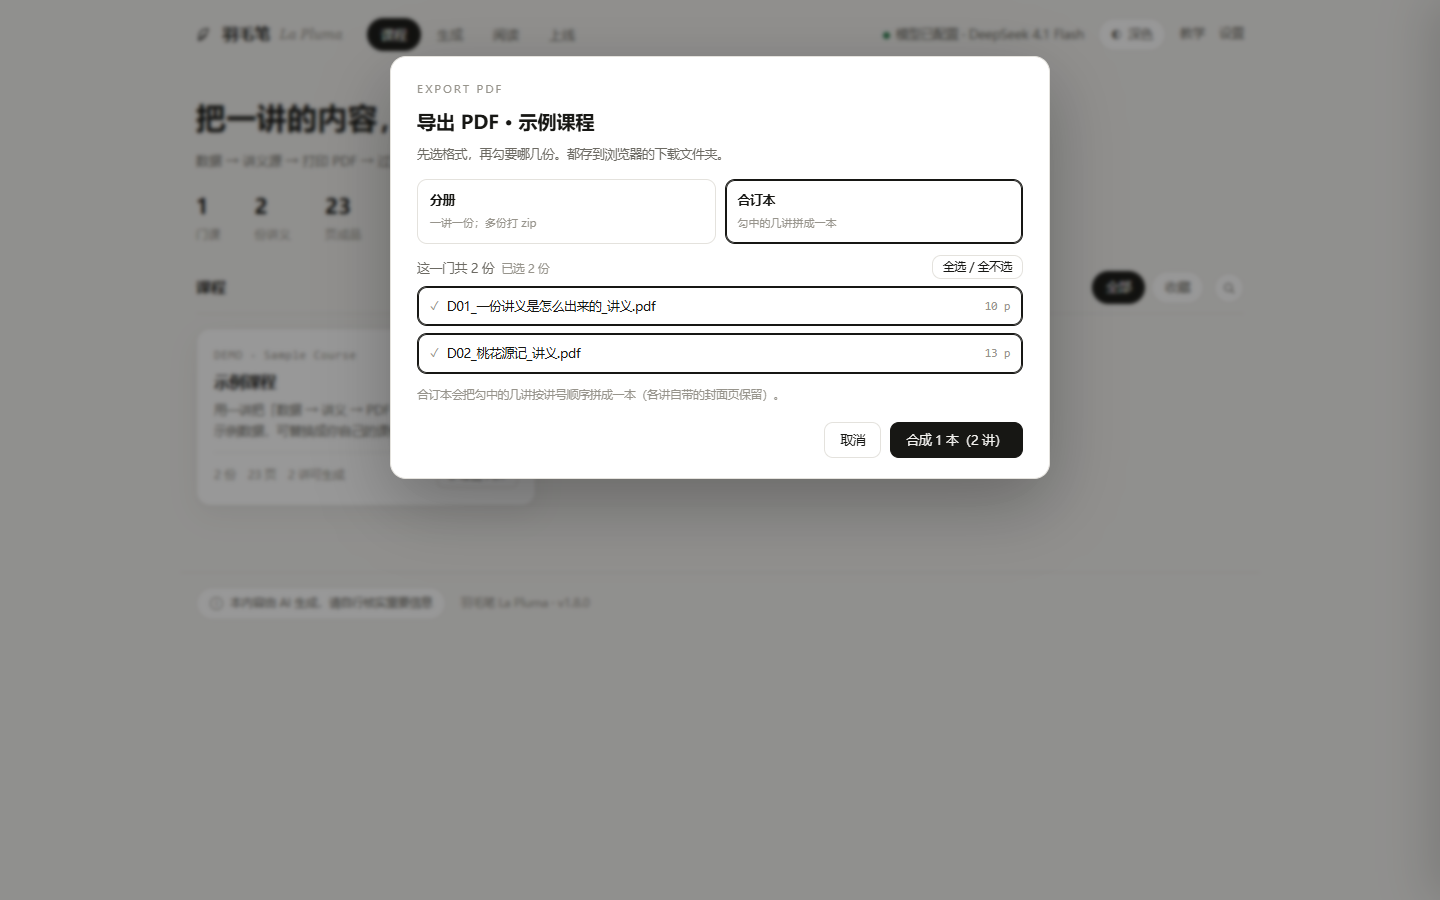
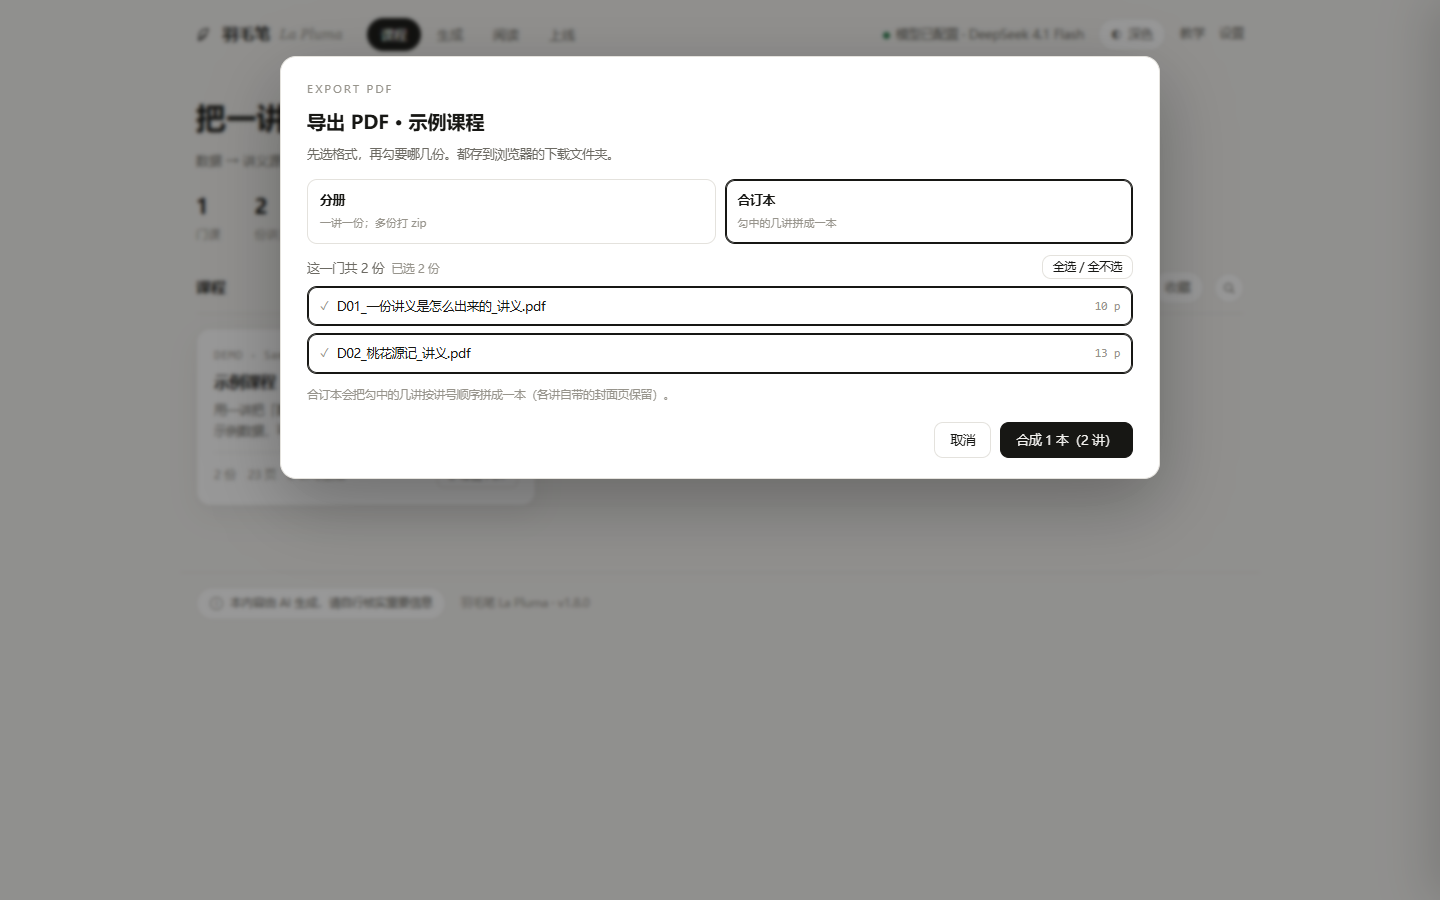
feat: 保存目录可选、导出弹窗加宽、主页改版
- 生成页「保存目录」那一行改成可点：调本机的系统文件夹对话框（子进程跑 tkinter，
  避免在 HTTP 工作线程里建 Tk），选完直接写本机配置；远程访问时明确提示只能在本机选
- 导出弹窗宽度 660 → 880px（内容多，原来太挤）
- tools\sync-readme.py 不再只取 5 条，14 个版本全列
- 主页重写：顶部求 ⭐（按用户指定放在最前）→ 目的 → 产品介绍（扩写）→ 我想…表；
  三个入口从灰底徽章改成大号彩色按钮并标注「这是按钮」；全文用语书面化；
  产品介绍图重拍为 v1.8.0（右侧换成真实会话页，不再用 v1.6.0 旧图）
- docs\预览：登记「查看原件」为待规划（口径待用户定）

Changed region(s): [[0.1875, 0.0622, 0.5312, 0.56], [0.5625, 0.0622, 0.8125, 0.56]]

diff --git a/ui/index.html b/ui/index.html
@@ -144,6 +144,11 @@ nav a.on{background:var(--ink);color:var(--bg)}
 .dveil{position:fixed;inset:0;background:rgba(10,10,9,.26);opacity:0;pointer-events:none;
   transition:opacity .22s ease;z-index:29}
 .dveil.on{opacity:1;pointer-events:auto}
+/* 2026-11-17：保存目录那一行改成可点（用户：「输出模式那个按钮选目录压根就没做」） */
+.fld.pick{cursor:pointer;transition:.16s}
+.fld.pick:hover{border-color:var(--ink);background:var(--card)}
+.fld.pick.busy{opacity:.55;pointer-events:none}
+.dlg.wide{width:min(880px,96vw)}
 .dr-h{padding:20px 22px 12px;border-bottom:1px solid var(--line);position:relative}
 .dr-h .c{font-family:Consolas,monospace;font-size:11px;color:var(--faint)}
 .dr-h h3{margin:6px 0 4px;font-size:19px}
@@ -459,7 +464,8 @@ footer{max-width:1080px;margin:26px auto 0;padding:0 16px;display:flex;align-ite
           <div class="opt on" data-mode="local"><b>保存到本地</b><small>落到保存目录</small></div>
           <div class="opt" data-mode="repo"><b>推送到仓库</b><small>本仓提交即推送</small></div>
         </div>
-        <div class="fld"><code id="outPath">CS340/01_讲义</code><span style="font-size:11.5px;color:var(--faint)">保存目录</span></div>
+        <div class="fld pick" id="dirPick" title="点击选择保存目录（在这台电脑上弹系统对话框）">
+          <code id="outPath">CS340/01_讲义</code><span id="dirHint" style="font-size:11.5px;color:var(--faint)">保存目录 · 点击选择</span></div>
         <p class="hint" id="dirFix" style="display:none;color:var(--red);border:0">保存目录在配置里是乱码（出现过 ?），已临时退回默认目录；请到「设置」里重填。</p>
         <h3 style="margin-top:16px">成品形态</h3>
         <p class="hint">单本＝一讲一份 PDF（默认）；合订本＝全部讲合成一本，去掉各讲自带的封面与目录。</p>
@@ -815,6 +821,7 @@ function exportCourse(c){
     <div class="acts"><button class="btn ghost" id="exNo">取消</button>
       <button class="btn" id="exGo">导出</button></div>`;
   openVeil();
+  $('#dlg').classList.add('wide');        // 导出弹窗内容多，用宽版（用户：图 2 太小）
   const sync = () => {
     const n = sel.size;
     $('#exCnt').textContent = '已选 ' + n + ' 份';
@@ -1058,6 +1065,27 @@ $('#lsnAll').onclick = () => {
   syncLsnCnt();
 };
 $('#courseSel').onchange = syncLessons;
+/* 2026-11-17：保存目录改可点选（用户：「输出模式那个按钮选目录压根就没做」）。
+   弹的是这台电脑的系统文件夹对话框；请求会挂住直到选完或取消，所以先置灰。 */
+$('#dirPick').onclick = async () => {
+  const box = $('#dirPick'), hint = $('#dirHint');
+  const old = hint.textContent;
+  box.classList.add('busy'); hint.textContent = '等你在系统对话框里选…';
+  try{
+    const j = await (await fetch('/api/pick-dir',{method:'POST',headers:{'Content-Type':'application/json'},
+      body:JSON.stringify({initial:B.save_dir_abs || ''})})).json();
+    if(!j.ok){
+      hint.textContent = old;
+      if(!j.canceled) toast('没选成：' + (j.error || '未知原因') + '（也可以到「设置」里手填路径）');
+      return;
+    }
+    const r = await (await fetch('/api/config',{method:'POST',headers:{'Content-Type':'application/json'},
+      body:JSON.stringify({save_dir: j.path, wizard_done:true})})).json();
+    if(r.ok){ toast('保存目录已改为 ' + j.path); await boot(); }
+    else { hint.textContent = old; toast('保存失败：' + (r.error || '')); }
+  }catch(e){ hint.textContent = old; toast('请求失败：' + e); }
+  finally { box.classList.remove('busy'); }
+};
 document.querySelectorAll('.opt[data-mode]').forEach(o=>o.onclick=()=>{
   document.querySelectorAll('.opt[data-mode]').forEach(x=>x.classList.remove('on'));
   o.classList.add('on'); MODE=o.dataset.mode;
@@ -1789,6 +1817,7 @@ function closeVeil(){
   const v = $('#veil');
   if(!v.classList.contains('on')) return;
   v.classList.add('closing');
+  $('#dlg').classList.remove('wide');
   clearTimeout(veilTimer);
   veilTimer = setTimeout(()=>{
     if(v.classList.contains('closing')) v.classList.remove('on', 'closing');

diff --git a/ui/server.py b/ui/server.py
@@ -15,6 +15,7 @@ import mimetypes
 import os
 import re
 import shutil
+import subprocess
 import sys
 import threading
 import time
@@ -373,6 +374,42 @@ def rel_out(path: str) -> str:
         if root and ap.startswith(os.path.abspath(root) + os.sep):
             return os.path.relpath(ap, root).replace(os.sep, "/")
     return os.path.basename(ap)
+
+
+def pick_directory(initial: str = "") -> str:
+    """弹一个原生「选择文件夹」对话框，返回选中路径（取消则空串）。
+
+    为什么起子进程：tkinter 的 Tk() 要在主线程建，而请求跑在
+    ThreadingHTTPServer 的工作线程，同线程建 Tk 在 Windows 上会偶发卡死。
+    冻结成 exe 后 sys.executable 就是 exe 自己，再起它等于又开一个软件，所以那种情况只能本进程内弹。
+    """
+    code = (
+        "import sys, tkinter as tk\n"
+        "from tkinter import filedialog\n"
+        "r = tk.Tk(); r.withdraw(); r.attributes('-topmost', True)\n"
+        "init = sys.argv[1] if len(sys.argv) > 1 else ''\n"
+        "p = filedialog.askdirectory(title='选择保存目录', initialdir=init or None, mustexist=True)\n"
+        "r.destroy()\n"
+        "print('PICK:' + (p or ''))\n"
+    )
+    try:
+        if getattr(sys, "frozen", False):
+            import tkinter as tk
+            from tkinter import filedialog
+            r = tk.Tk()
+            r.withdraw()
+            r.attributes("-topmost", True)
+            p = filedialog.askdirectory(title="选择保存目录", initialdir=initial or None, mustexist=True)
+            r.destroy()
+            return p or ""
+        out = subprocess.run([sys.executable, "-c", code, initial or ""],
+                             capture_output=True, text=True, timeout=180)
+        for line in (out.stdout or "").splitlines():
+            if line.startswith("PICK:"):
+                return line[5:].strip()
+        return ""
+    except Exception as e:  # noqa: BLE001
+        raise RuntimeError("弹不出目录选择框：%s" % e) from e
 
 
 def nat_key(name: str):
@@ -973,6 +1010,22 @@ class Handler(BaseHTTPRequestHandler):
                 elif not done:
                     tip["error"] = "；".join(r.get("error", "") for r in results)[:300]
                 return self._json(tip)
+            if u.path == "/api/pick-dir":
+                # 选保存目录（原生文件夹对话框）。只接本机：平板端弹不出这台电脑的对话框，
+                # 那边只能到「设置」里手填；请求会一直挂着直到用户选完或取消。
+                if self.client_address[0] not in ("127.0.0.1", "::1"):
+                    return self._json({"ok": False,
+                                       "error": "只能在运行软件的那台电脑上选目录；远程请到「设置」里手填路径"}, 403)
+                cfg0 = load_cfg()
+                initial = str(body.get("initial") or "").strip() \
+                    or os.path.abspath(os.path.join(ROOT, cfg0["save_dir"]))
+                try:
+                    p = pick_directory(initial)
+                except Exception as e:  # noqa: BLE001
+                    return self._json({"ok": False, "error": str(e)}, 500)
+                if not p:
+                    return self._json({"ok": False, "canceled": True})
+                return self._json({"ok": True, "path": p})
             if u.path == "/api/config":
                 cfg = load_cfg()
                 for k in ("model", "save_dir", "base_url", "provider"):

diff --git a/tools/sync-readme.py b/tools/sync-readme.py
@@ -20,7 +20,11 @@ CHANGELOG = os.path.join(ROOT, "CHANGELOG.md")
 README = os.path.join(ROOT, "README.md")
 BEGIN = "<!-- 最近更新:begin（由 tools/sync-readme.py 生成，别手改） -->"
 END = "<!-- 最近更新:end -->"
-LIMIT = 5
+LIMIT = 0        # 0 = 全部版本；2026-11-17 用户说「最近更新只显示最近五个版本」不够，改成全列
+
+
+def pick_rows(rows):
+    return rows if not LIMIT else rows[:LIMIT]
 
 
 def parse(path: str) -> list[tuple[str, str, str]]:
@@ -39,7 +43,7 @@ def parse(path: str) -> list[tuple[str, str, str]]:
 
 def render(rows) -> str:
     head = "| 版本 | 日期 | 这一版做了什么 |\n|:--|:--|:--|"
-    body = "\n".join("| **%s** | %s | %s |" % (v, d[5:], t) for v, d, t in rows[:LIMIT])
+    body = "\n".join("| **%s** | %s | %s |" % (v, d[5:], t) for v, d, t in pick_rows(rows))
     return BEGIN + "\n" + head + "\n" + body + "\n" + END
 
 
@@ -60,10 +64,10 @@ def main(argv: list[str]) -> int:
         if new != src:
             print("最近更新表与 CHANGELOG 不一致：跑 python tools\\sync-readme.py")
             return 1
-        print("最近更新表一致（%d 版候选，取前 %d）" % (len(rows), LIMIT))
+        print("最近更新表一致（%d 版里列了 %d 版）" % (len(rows), len(pick_rows(rows))))
         return 0
     io.open(README, "w", encoding="utf-8").write(new)
-    print("已写回 README（%d 版候选，取前 %d）" % (len(rows), LIMIT))
+    print("已写回 README（%d 版里列了 %d 版）" % (len(rows), len(pick_rows(rows))))
     return 0
 
 

diff --git a/docs/预览/README.md b/docs/预览/README.md
@@ -42,6 +42,7 @@
 | 需求 | 口径 | 状态 |
 |:--|:--|:--|
 | 搜索 → 直接出讲义 PDF | 搜一个主题，软件直接给一份 PDF；**信息来源逐步权威性优先**，并且能**手填网址**作为最高优先级来源（即便不填关键词，也能拿网址去分析） | 待规划（等本轮界面改动落地后再拆） |
+| 查看原件（原始课件） | 用户 2026-11-17 提出：看讲义时想对照原始课件。待定口径：① 课程数据里挂上原件 PDF 路径（`courses.json` 加 `origin` 字段）并从阅读页右侧开一个「原件」对照抽屉；② 还是只做「打开原始文件所在文件夹」。需用户定 | 待规划（未动代码） |
 
 ## 可点原型（样张 HTML）
 
